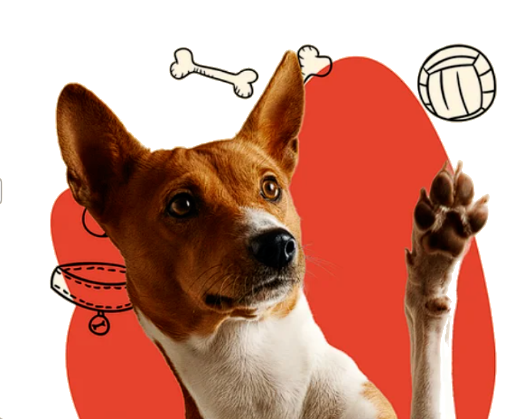
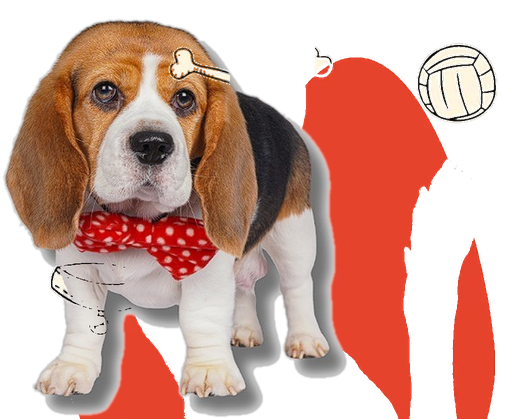
Restore hero art: Scotch cutout on red amoeba background

diff --git a/index.html b/index.html
@@ -78,14 +78,16 @@
       <div class="hero-bg-overlay"></div>
       <div class="section-container hero-container">
         
-        <!-- Left Column: Hero Dog Image -->
+        <!-- Left Column: Hero Dog Artwork & Red Shape -->
         <div class="hero-media-col">
           <div class="hero-media-wrapper hero-art-wrapper">
             <div class="hero-main-img-box">
-              <img src="images/hero-scotch.jpg" 
-                   alt="Scotch - Dwarf Beagle with red polka-dot bow tie" 
+              <img src="images/hero-dog-red-art@2x.png" 
+                   srcset="images/hero-dog-red-art.png 510w, images/hero-dog-red-art@2x.png 1020w"
+                   sizes="(max-width: 768px) 100vw, 680px"
+                   alt="Scotch - Dwarf Beagle with red polka-dot bow tie on red organic background" 
                    class="hero-dog-img hero-dog-art" 
-                   width="502" height="510"
+                   width="680" height="558"
                    loading="eager"
                    fetchpriority="high">
             </div>

diff --git a/css/style.css b/css/style.css
@@ -496,21 +496,21 @@ ul, ol {
 
 .hero-dog-art {
   width: 100%;
-  max-width: 500px;
+  max-width: 680px;
   height: auto;
-  border-radius: 28px;
-  box-shadow: 0 20px 50px rgba(99, 39, 19, 0.14);
-  border: 6px solid #FFFFFF;
-  object-fit: cover;
+  object-fit: contain;
   display: block;
   vertical-align: bottom;
   margin-bottom: 0;
-  transition: transform var(--transition-smooth), box-shadow var(--transition-smooth);
+  transform-origin: bottom left;
+  transition: transform var(--transition-smooth);
+  border-radius: 0;
+  box-shadow: none;
+  border: none;
 }
 
 .hero-dog-art:hover {
-  transform: translateY(-5px);
-  box-shadow: 0 28px 60px rgba(99, 39, 19, 0.2);
+  transform: translateY(-4px) scale(1.02);
 }
 
 .hero-content-col {
